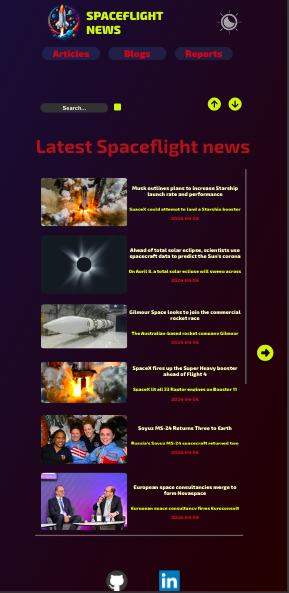
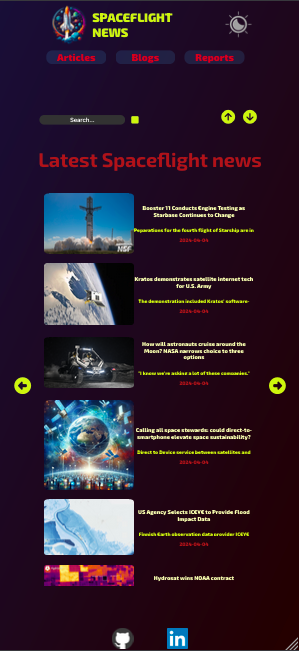
Adds css

diff --git a/src/components/MainPage.jsx b/src/components/MainPage.jsx
@@ -63,10 +63,6 @@ function MainPage({apiUrl}) {
         fetch(apiUrl + '/' + id)
             .then(res => res.json())
             .then(data => {
-                window.scrollTo({
-                    top: 0,
-                    behavior: 'smooth'
-                });
                 setSelectedData(data)
                 setLoading(false)
             })
@@ -82,9 +78,7 @@ function MainPage({apiUrl}) {
     return(
         <div id='main'>
             <div className="order-filter-box">
-                <form
-                    className="search-form"
-                    onSubmit={handleSubmit}>
+                <form className="search-form" onSubmit={handleSubmit}>
                     <input
                         id="input-box"
                         value={searchTerm}
@@ -108,30 +102,28 @@ function MainPage({apiUrl}) {
                 </div>
             </div>
             {selectedData && <View key={selectedData.id} data={selectedData} />}
+           
             {
-                    function(){
-                        const currentComponent = apiUrl.slice(apiUrl.lastIndexOf('/') + 1, apiUrl.length)
+                function(){
+                    const currentComponent = apiUrl.slice(apiUrl.lastIndexOf('/') + 1, apiUrl.length)
 
-                        switch (currentComponent) {
-                            case 'articles':
-                                return <h1 id="news-title">Latest Spaceflight news</h1>
-                                break;
-                            case 'blogs':
-                                return <h1 id="news-title">Spiciest Space Stories!</h1>
-                                break;
-                            default:
-                                return <h1 id="news-title">Daily reports!</h1>
-                                break;
-                        }
-                    }()
-                
+                    switch (currentComponent) {
+                        case 'articles':
+                            return <h1 id="news-title">Latest Spaceflight news</h1>
+                        case 'blogs':
+                            return <h1 id="news-title">Spiciest Space Stories!</h1>
+                        default:
+                            return <h1 id="news-title">Daily reports!</h1>
+                    }
+                }()
             }
+             <div className="line-break" />
             <div id='main-frame'>
-            {data.previous ?
+                {data.previous ?
                     <i className="fa-solid fa-circle-left arrow-image" onClick={getPreviousDataList}></i>
-                :
-                <img className="arrow-image-dummy" src={leftArrowDummy} alt="left arrow dummy" />
-            }
+                    :
+                    <img className="arrow-image-dummy" src={leftArrowDummy} alt="left arrow dummy" />
+                }
                 <div className="card-list">
                     {
                         data.results?.map((data) => (

diff --git a/src/components/MainPage.css b/src/components/MainPage.css
@@ -18,10 +18,6 @@
     margin-left: 20px;
 }
 
-.submit-button:hover{
-    cursor: pointer;
-}
-
 .order-filter-box{
     display: flex;
     align-items: center;
@@ -72,10 +68,6 @@
     padding: 13px;
 }
 
-.up-down-arrow:hover {
-    cursor: pointer;
-}
-  
 .up-down-arrow:active,
 .submit-button:active,
 .arrow-image:active {
@@ -88,15 +80,17 @@
     color: #96a534;
 }
 
-.arrow-image, .arrow-image-dummy {
-    width: 100px;
-    font-size: 350%;
-    transition: box-shadow 0.3s ease;
-    overflow: hidden;
-}
-  
-.arrow-image:hover {
+.arrow-image:hover,
+.up-down-arrow:hover,
+.submit-button:hover {
     cursor: pointer;
+}
+
+.arrow-image,
+.arrow-image-dummy {
+    width: 100px;
+    font-size: 340%;
+    overflow: hidden;
 }
   
 .card-list {

diff --git a/src/App.css b/src/App.css
@@ -9,7 +9,7 @@
   align-items: center;
   justify-content:space-between;
   text-align: center;
-  background: linear-gradient(to bottom right, #EAECD3, #d5fffc);
+  background: linear-gradient(to bottom right, #EAECD3, #fff8c8);
   color: #440D4D;
   min-height: 100vh;
 }
@@ -22,4 +22,15 @@
 .link {
   color: inherit;
   text-decoration: none;
+}
+
+.line-break{
+  border: 1px;
+  border-style:solid;
+  border-color: #acad9a;
+  width:80%;
+}
+
+.darkmode .line-break{
+  border-color: #3e2b42;
 }

diff --git a/src/components/Navbar.css b/src/components/Navbar.css
@@ -1,7 +1,9 @@
 header{
     display: flex;
+    align-items: center;
     flex-direction: column;
 }
+
 .navbar{
     margin: 0;
     padding: 0;
@@ -9,7 +11,7 @@ header{
     justify-content: space-between;
     align-items: center;
     max-width: 70vw;
-    width: 100vw;
+    width: 100%;
     flex-wrap: nowrap;
     margin-bottom: 10px;
 }
@@ -68,7 +70,6 @@ header{
 }
 
 #darkmode-switch{
-    margin-left: 20px;
     max-height: 100px;
 }
 

diff --git a/src/components/View.css b/src/components/View.css
@@ -32,11 +32,10 @@
 }
 
 .view-title{
-    color:#110EA7;
+    color:#440D4D;
     font-size: 240%;
     font-weight: 700;
 }
-
 
 .darkmode .view-title {
     color: #9E1818;
